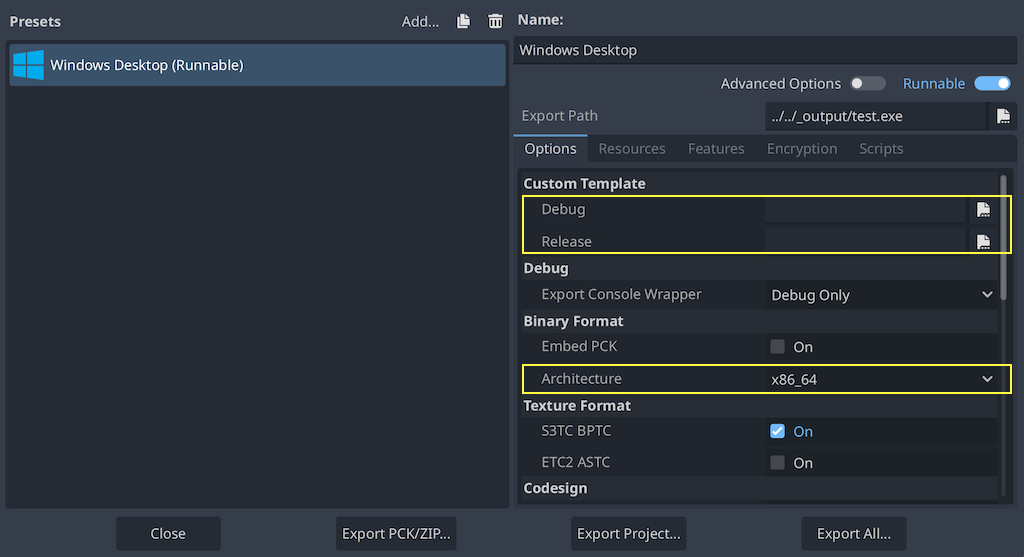
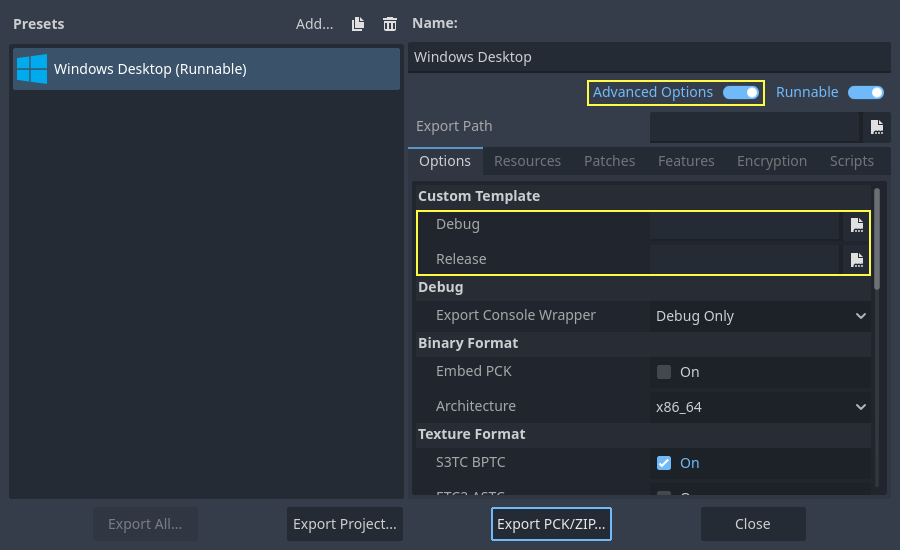
Update custom templates images on compiling pages

diff --git a/contributing/development/compiling/compiling_for_linuxbsd.rst b/contributing/development/compiling/compiling_for_linuxbsd.rst
@@ -376,9 +376,10 @@ and named like this (even for \*BSD which is seen as "Linux/X11" by Godot):
 
 However, if you are writing your custom modules or custom C++ code, you
 might instead want to configure your binaries as custom export templates
-here:
+in the project export menu. You must have **Advanced Options** enabled
+to set this.
 
-.. image:: img/lintemplates.png
+.. image:: img/lintemplates.webp
 
 You don't even need to copy them, you can just reference the resulting
 files in the ``bin/`` directory of your Godot source folder, so the next

diff --git a/contributing/development/compiling/compiling_for_windows.rst b/contributing/development/compiling/compiling_for_windows.rst
@@ -489,11 +489,10 @@ With the following names:
 
 However, if you are using custom modules or custom engine code, you
 may instead want to configure your binaries as custom export templates
-here:
+in the project export menu. You must have **Advanced Options** enabled
+to set this.
 
 .. image:: img/wintemplates.webp
-
-Select matching architecture in the export config.
 
 You don't need to copy them in this case, just reference the resulting
 files in the ``bin\`` directory of your Godot source folder, so the next

diff --git a/contributing/development/compiling/compiling_for_android.rst b/contributing/development/compiling/compiling_for_android.rst
@@ -204,9 +204,9 @@ next to your export templates.
 
 However, if you are writing your custom modules or custom C++ code, you
 might instead want to configure your template binaries as custom export templates
-here:
+in the project export menu. You must have **Advanced Options** enabled to set this.
 
-.. image:: img/andtemplates.png
+.. image:: img/andtemplates.webp
 
 You don't even need to copy them, you can just reference the resulting
 file in the ``bin\`` directory of your Godot source folder, so that the
